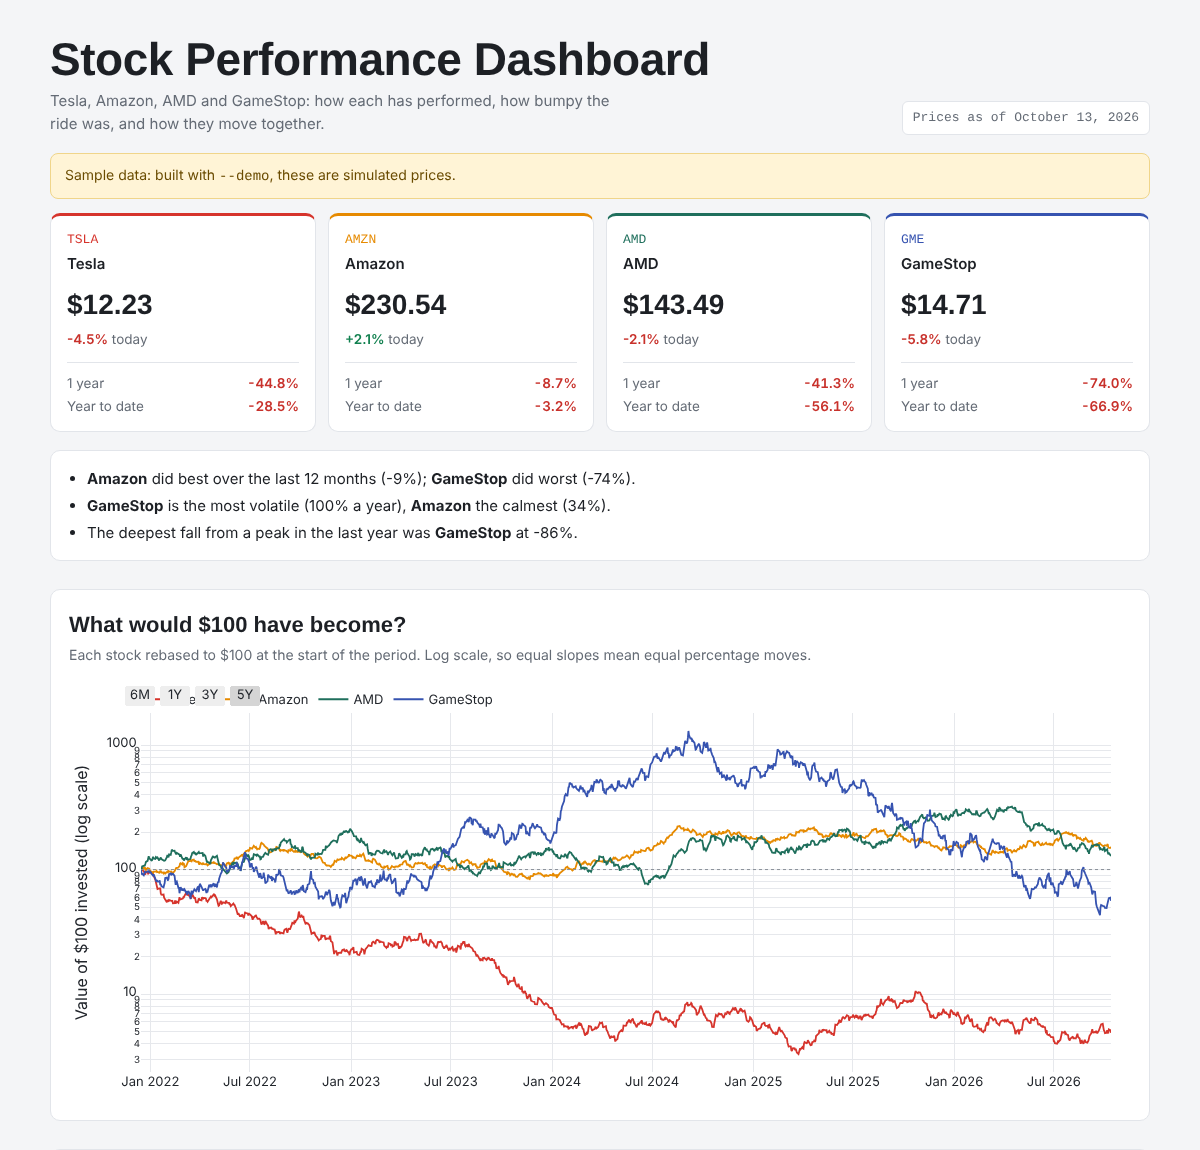
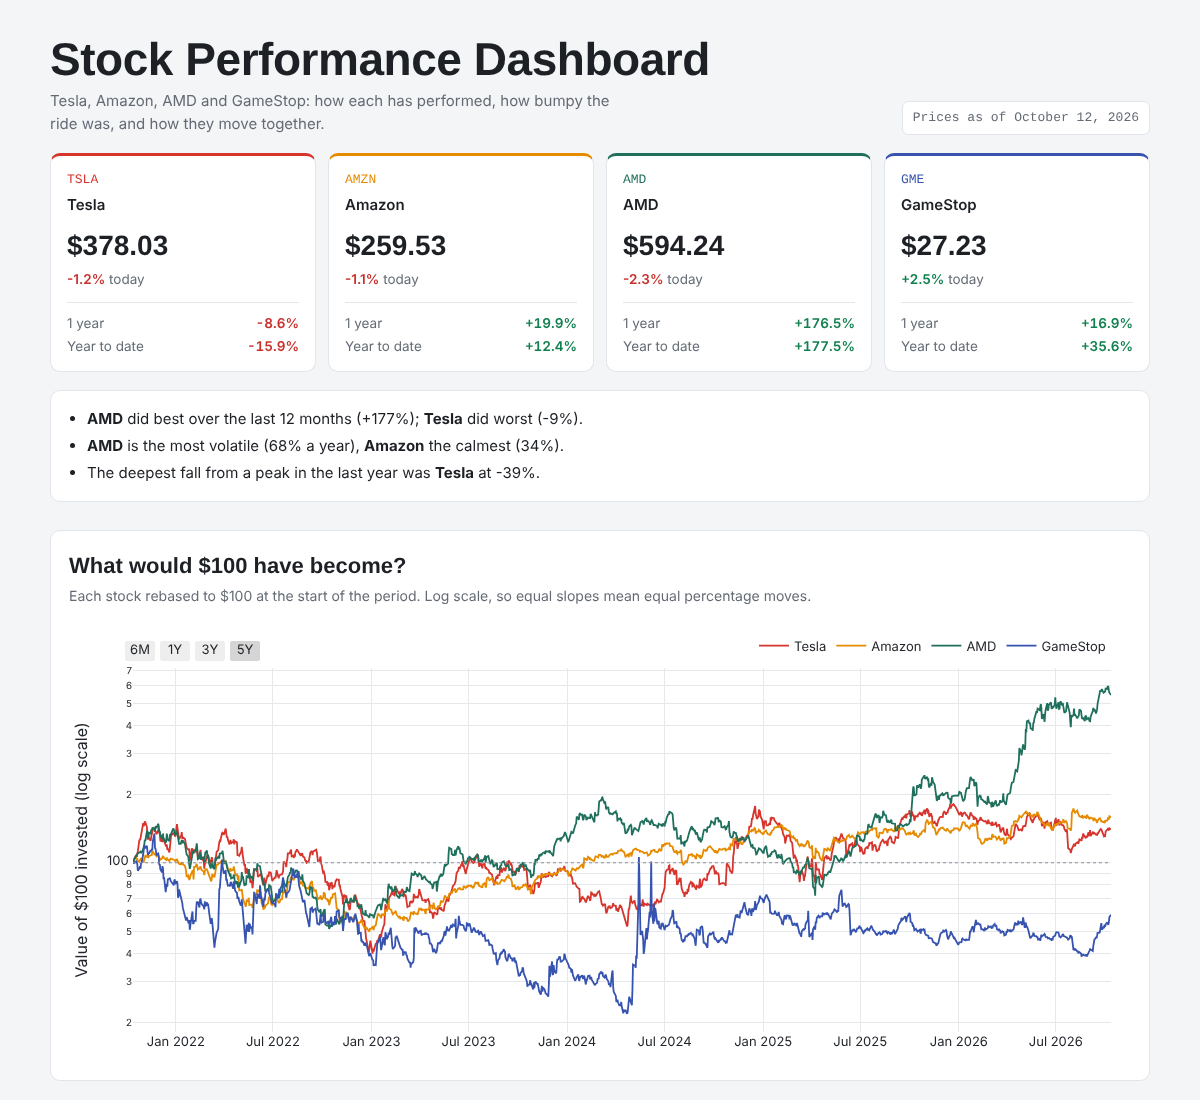
Cleaner log-axis ticks; real-data screenshot
Claude-Session: https://claude.ai/code/session_01FE2XGtxQBvpeHtjWW8SDCG

diff --git a/dashboard.py b/dashboard.py
@@ -119,7 +119,10 @@ def fig_performance(close):
         fig.add_trace(go.Scatter(x=rebased.index, y=rebased[t], name=TICKERS[t], line=dict(color=COLORS[t], width=1.8),
                                  hovertemplate="%{y:.0f}"))
     fig.add_hline(y=100, line=dict(color="#8a9099", width=1, dash="dot"))
-    fig.update_yaxes(type="log", title="Value of $100 invested (log scale)")
+    ticks = [t for t in (5, 10, 20, 50, 100, 200, 500, 1000, 2000, 5000)
+             if rebased.min().min() / 2 <= t <= rebased.max().max() * 2]
+    fig.update_yaxes(type="log", title="Value of $100 invested (log scale)", tickvals=ticks,
+                     ticktext=[f"${t:,}" for t in ticks], minor=dict(showgrid=False))
     fig.update_xaxes(rangeselector=dict(buttons=[dict(count=6, label="6M", step="month", stepmode="backward"),
                                                  dict(count=1, label="1Y", step="year", stepmode="backward"),
                                                  dict(count=3, label="3Y", step="year", stepmode="backward"),

diff --git a/README.md b/README.md
@@ -4,7 +4,7 @@ A self-updating dashboard for **Tesla, Amazon, AMD and GameStop**: returns, tren
 
 **Live dashboard:** https://phanisrikanth9.github.io/Analyzing-Stock-Performance-and-Building-a-Dashboard/
 
-![Dashboard preview (built with sample data)](docs/screenshot.png)
+![Dashboard preview](docs/screenshot.png)
 
 ## What it shows
 
